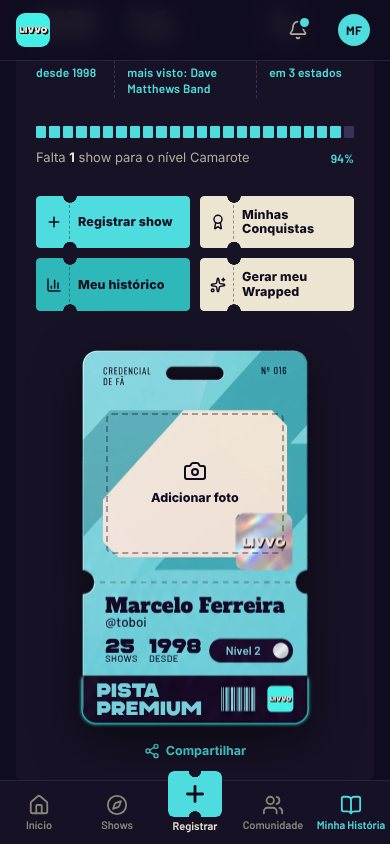
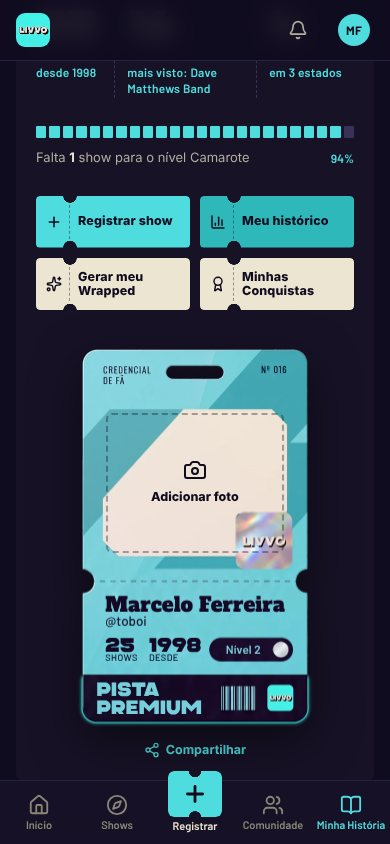
livvo-final: ordem dos botões e dos filtros de Minhas Conquistas (decisões 87 e 88)
- Botões da Minha História: Registrar show, Meu histórico, Gerar meu Wrapped, Minhas Conquistas (mantida a ordem do Codex)
- Filtros: Conquistadas, A conquistar, Todas, Em breve; a galeria abre em Conquistadas
- Antes de 5 shows a galeria mostra todas as figurinhas, sem filtros
- Remove conquistasLegacy.ts (cópia sem uso do rename para conquistasLogic.ts)
- Handoff, Comece aqui e 4 capturas atualizados

Claude-Session: https://claude.ai/code/session_01PooTs6g2QKj5BVXqp7ffCN

diff --git a/src/livvo/Conquistas.tsx b/src/livvo/Conquistas.tsx
@@ -7,21 +7,24 @@ import { Picotes, Stub } from './ui';
 
 type Filtro = 'all' | StickerState['status'];
 
+// Ordem dos filtros: decisão do Edmir de 08/10/2026, 06h18 (Conquistadas, A conquistar, Todas, Em breve)
 const FILTROS: Array<{ id: Filtro; label: string }> = [
-  { id: 'all', label: 'Todas' },
   { id: 'unlocked', label: 'Conquistadas' },
   { id: 'locked', label: 'A conquistar' },
+  { id: 'all', label: 'Todas' },
   { id: 'soon', label: 'Em breve' },
 ];
 
 /** Coleção do Passaporte: arquivos Color oficiais com transparência, sem cards. */
 export const MinhasConquistas: React.FC<{ pass: Passaporte; fechar: () => void }> = ({ pass, fechar }) => {
-  const [filtro, setFiltro] = useState<Filtro>('all');
+  // Abre no primeiro filtro (Conquistadas)
+  const [filtro, setFiltro] = useState<Filtro>('unlocked');
   const stickers = useMemo(() => avaliarConquistas(pass), [pass]);
   const conquistadas = stickers.filter((sticker) => sticker.status === 'unlocked').length;
-  const visiveis = stickers.filter((sticker) => filtro === 'all' || sticker.status === filtro);
   // N2 (06/10/2026): a primeira conquista chega com 5 shows registrados
   const faltam = Math.max(0, MIN_SHOWS_CONQUISTAS - pass.shows);
+  // Antes de 5 shows os filtros somem e a galeria mostra todas
+  const visiveis = stickers.filter((sticker) => faltam > 0 || filtro === 'all' || sticker.status === filtro);
 
   return (
     <section id="minhas-conquistas" className="lv-hist lv-conquistas" aria-label="Minhas Conquistas">

diff --git a/src/livvo/pages/MinhaHistoria.tsx b/src/livvo/pages/MinhaHistoria.tsx
@@ -277,7 +277,8 @@ export const MinhaHistoria: React.FC = () => {
 
           </div>
 
-          {/* 4 botões: numa linha no computador (07/10, 21h51) e em grade 2 × 2 no celular (revisão 11) */}
+          {/* 4 botões: Registrar show, Meu histórico, Gerar meu Wrapped e Minhas Conquistas (ordem do Edmir, 08/10 às 06h18);
+              numa linha no computador e em grade 2 × 2 no celular (revisão 11) */}
           <div className="lv-acoes-4 order-2 lg:order-3 lg:col-span-2 -mt-1 lg:-mt-3">
             <Stub icone={Plus} to="/registrar">
               Registrar show

diff --git a/docs/livvo-final/HANDOFF_PARTE1.md b/docs/livvo-final/HANDOFF_PARTE1.md
@@ -23,7 +23,7 @@ Este documento descreve a "cara" do Livvo final que está sendo montada dentro d
 
 > **Revisão 10 (07/10/2026, pedido às 21h51):** na Minha História, **"Minhas Conquistas" logo depois de "Registrar show"** e os **4 botões numa linha só**, sem quebrar o texto; o **"Registrar show"** do cabeçalho no mesmo modelo do "Comece agora" da página de entrada; e a regra: **ingressos e botões-ingresso têm os furos sempre em cima e embaixo, nunca nas laterais**. Seções 4, 5 e 6.5 e decisões 70 a 72.
 
-> **Revisão 11 (08/10/2026, aprovada pelo Edmir às 00h55):** as 12 correções da "Análise atualizada do projeto" (07/10) e as 6 decisões que estavam pendentes. **Sem escada de verificação** (frase "Em breve, o Livvo vai verificar a sua presença nos shows."); **conquistas a partir de 5 shows**; frase de posicionamento com **"encontrou"** em todos os lugares; **só as faixas de acesso** (Pista → All Access); Minha História com os **4 botões em grade 2 × 2 no celular** e **boas-vindas na conta zerada**; na página do show no celular, **as notas vêm logo abaixo do pôster**; **Eu fui sem ✓ antes do toque**; **"Falta 1 show"**; Credencial sem rótulo de teste e com um só "Adicionar foto"; página de entrada com os nomes do app; **visitante cria e compartilha 1 pôster sem login**; **médias só com notas públicas e de seguidores, mínimo de 5**. Novidades: **aviso animado de nova conquista** e **sino com "O que quem você segue está vivendo"**, com o Início destacando o que é novo desde a última visita. Seções 5.9, 6.0, 6.1, 6.3, 6.4 e 6.5 e decisões 73 a 86.
+> **Revisão 11 (08/10/2026, aprovada pelo Edmir às 00h55):** as 12 correções da "Análise atualizada do projeto" (07/10) e as 6 decisões que estavam pendentes. **Sem escada de verificação** (frase "Em breve, o Livvo vai verificar a sua presença nos shows."); **conquistas a partir de 5 shows**; frase de posicionamento com **"encontrou"** em todos os lugares; **só as faixas de acesso** (Pista → All Access); Minha História com os **4 botões em grade 2 × 2 no celular** e **boas-vindas na conta zerada**; na página do show no celular, **as notas vêm logo abaixo do pôster**; **Eu fui sem ✓ antes do toque**; **"Falta 1 show"**; Credencial sem rótulo de teste e com um só "Adicionar foto"; página de entrada com os nomes do app; **visitante cria e compartilha 1 pôster sem login**; **médias só com notas públicas e de seguidores, mínimo de 5**. Novidades: **aviso animado de nova conquista** e **sino com "O que quem você segue está vivendo"**, com o Início destacando o que é novo desde a última visita. Seções 5.9, 6.0, 6.1, 6.3, 6.4 e 6.5 e decisões 73 a 86. **Ajuste das 06h18:** botões da Minha História na ordem Registrar show, Meu histórico, Gerar meu Wrapped e Minhas Conquistas; filtros das conquistas na ordem Conquistadas, A conquistar, Todas e Em breve; inclui a correção do Codex no nome do arquivo de conquistas (decisões 87 e 88).
 
 > Importante: pelo plano de fusão, **B continua sendo a base técnica**. Esta prévia é a referência visual e de comportamento. Reaproveitar ou reescrever os componentes no stack de B é decisão do Greg.
 
@@ -237,10 +237,10 @@ Na Minha História, abaixo de "Registrar show" e "Compartilhar credencial": **Me
 
 ---
 
-### 5.9 Novidades e pôster grátis (revisão 11: `src/livvo/Novidades.tsx`, `src/livvo/conquistas.ts`, `src/livvo/PosterVisitante.tsx`)
+### 5.9 Novidades e pôster grátis (revisão 11: `src/livvo/Novidades.tsx`, `src/livvo/conquistasLogic.ts`, `src/livvo/PosterVisitante.tsx`)
 
 - **Aviso de nova conquista (`AvisoConquista`, montado no `AppShell`):** quando o registro de **1 show** desbloqueia conquistas, abre uma janela com o sticker entrando animado (escala e giro, raios girando atrás), o nome, o critério, "E mais N conquistas: …" quando for mais de uma, o botão-canhoto **"Ver Minhas Conquistas"** (leva a `/minha-historia?ver=conquistas`, que abre a galeria) e "Continuar". Com movimento reduzido no sistema (`prefers-reduced-motion`), nada anima. Restaurar a demonstração ou zerar a conta não dispara aviso. Chave: `livvo_final_conquistas_vistas_v1`.
-- **Conquistas a partir de 5 shows (N2):** `avaliarConquistas` (em `conquistas.ts`) trava tudo antes de 5 shows; a galeria mostra "Faltam N shows para a sua primeira conquista", picotes 0/5 e "Registrar show". `paraIngressosA` mudou para esse arquivo leve (o `HistoricoWrapped` reexporta), para o aviso não carregar os gráficos e o Wrapped.
+- **Conquistas a partir de 5 shows (N2):** `avaliarConquistas` (em `conquistasLogic.ts`) trava tudo antes de 5 shows; a galeria mostra "Faltam N shows para a sua primeira conquista", picotes 0/5 e "Registrar show", com todas as figurinhas e sem filtros. A partir de 5 shows, filtros na ordem **Conquistadas, A conquistar, Todas, Em breve**, abrindo em Conquistadas (decisão de 08/10, 06h18). `paraIngressosA` mudou para esse arquivo leve (o `HistoricoWrapped` reexporta), para o aviso não carregar os gráficos e o Wrapped. **Nome do arquivo:** `conquistasLogic.ts`, e não `conquistas.ts`, porque no macOS (que não diferencia maiúscula de minúscula) ele colidia com `Conquistas.tsx`; a correção é do Codex (commits `f4b8864` e `9eb2564`, 08/10).
 - **Sino (`SinoAtividade`):** o sino do cabeçalho deixa de ser só o link de Alertas. Ponto Ciano pulsando quando quem você segue registrou algo depois da última visita; o toque abre o painel **"O que quem você segue está vivendo"** (até 6 registros, os novos com a etiqueta Novo, "Ver na Comunidade" e "Alertas de shows"). No celular, o painel ocupa a largura da tela. Abrir o painel ou visitar o Início marca como visto (`livvo_final_atividade_vista_v1`). Nesta prévia a atividade vem da comunidade de exemplo, com horário fixo no dia; no site, vem do banco (registros públicos ou para seguidores de quem a pessoa segue).
 - **Pôster grátis do visitante (decisão 3 de 07/10):** sem login, o Eu fui (página do show ou Registrar) abre a janela "Seu pôster" com o pôster do show, **Compartilhar** (Stories, Feed, Facebook, WhatsApp, Copiar link) e **"Entrar e guardar"**. Vale 1 pôster por visitante (`livvo_poster_visitante_v1`); o 2º pede login. "Entrar e guardar" abre o login e, ao entrar, registra o show na história. No site, o limite deve ficar no servidor (por aparelho e IP), não só no navegador. O menu da prévia tem "Zerar pôster grátis e cards sem login" para testar de novo.
 
@@ -317,7 +317,7 @@ Página-ingresso com tira "Livvo · Registrar show / Passo 1 de 2" (e "Passo 2 d
 Mesma página de identificação da Wallet do Estúdio, sem a linha MRZ:
 1. Tira "Livvo · Passaporte de fã / Titular @toboi"; ícone de passaporte e **"Passaporte Oficial de Shows"** em Alfa Teal; "Cada show que você registra vira um carimbo aqui. Os antigos contam também."
 2. TITULAR · NOME (Alfa) e @ em Ciano; campos Shows · Artistas · Cidades; 24 marcas com "Faltam N shows para o nível X" ("Falta 1 show", no singular) e percentual. **Conta zerada (revisão 11):** no lugar dos zeros, o quadro "Passaporte em branco · Seu primeiro carimbo está a um show de distância."; "Meu histórico" e "Gerar meu Wrapped" ficam desligados até o 1º show.
-3. Botões-canhoto **numa linha só**, na largura toda do Passaporte (revisão 10): **"Registrar show"** (Ciano), **"Minhas Conquistas"** (Creme; abre a galeria de conquistas, `src/livvo/Conquistas.tsx`), **"Meu histórico"** (Teal) e **"Gerar meu Wrapped"** (Creme), seção 5.6. Texto, canhoto e margens acompanham a largura da linha (texto de 11,5 a 13,5 px), sem quebrar texto; abaixo de 720 px, **grade 2 × 2** (revisão 11), com o texto podendo ir para 2 linhas, os 4 sempre à vista. O "Compartilhar credencial" saiu na revisão 6: fica só o "Compartilhar" embaixo da credencial. **Números clicáveis** (revisão 6): Shows rola até a Carteira de ingressos; Artistas e Cidades abrem o Meu histórico e levam ao gráfico "Artistas mais vistos" ou "Cidades", destacado por 2 s. No Início, os mesmos números levam à Minha História (`/minha-historia?ver=carteira|artistas|cidades`). Os campos Shows · Artistas · Cidades ganharam mais espaço entre si (revisão 5).
+3. Botões-canhoto **numa linha só**, na largura toda do Passaporte, nesta ordem (decisão de 08/10, 06h18): **"Registrar show"** (Ciano), **"Meu histórico"** (Teal), **"Gerar meu Wrapped"** (Creme) e **"Minhas Conquistas"** (Creme; abre a galeria de conquistas, `src/livvo/Conquistas.tsx`), seção 5.6. Texto, canhoto e margens acompanham a largura da linha (texto de 11,5 a 13,5 px), sem quebrar texto; abaixo de 720 px, **grade 2 × 2** (revisão 11), com o texto podendo ir para 2 linhas, os 4 sempre à vista. O "Compartilhar credencial" saiu na revisão 6: fica só o "Compartilhar" embaixo da credencial. **Números clicáveis** (revisão 6): Shows rola até a Carteira de ingressos; Artistas e Cidades abrem o Meu histórico e levam ao gráfico "Artistas mais vistos" ou "Cidades", destacado por 2 s. No Início, os mesmos números levam à Minha História (`/minha-historia?ver=carteira|artistas|cidades`). Os campos Shows · Artistas · Cidades ganharam mais espaço entre si (revisão 5).
 4. À direita (abaixo no celular): **Credencial Backstage** com os dados da conta (nome, @, shows, desde, nível e acesso calculados pelos shows, Nº de cadastro de teste 16), um só "Adicionar foto" (o botão sobre a credencial; o link "Trocar foto" aparece só depois da foto) e sem o rótulo "Credencial teste" (revisão 11), com o mesmo tratamento e mesma chave `livvo_user_photo_v1` do Estúdio: até 1024 px, mantém transparência, tenta 640 px sem espaço, aviso para HEIC) e "Compartilhar" (PNG em resolução cheia pelo menu do celular ou download).
 5. **Carteira de ingressos 25**: memórias por ano em ingressos de contorno Ciano (duas colunas a partir de 1024 px): pôster no canhoto, artista em Alfa, data, casa · cidade, nota do show em ingressos ou "Sem nota", e "Falta a organização" (leva direto à nota). O canhoto mostra a personalização da memória e o nome do artista quebra em até duas linhas, sem cortar palavra.
 As abas Números, Coleção (medalhas, desafios, stickers), Agenda e Listas entram na parte 3.
@@ -462,7 +462,7 @@ Decisões do Edmir em 07/10/2026, 21h24 e 21h27 (revisão 9):
 
 Decisões do Edmir em 07/10/2026, 21h51 (revisão 10):
 
-70. **"Minhas Conquistas" logo depois de "Registrar show"** na Minha História, e os **4 botões numa única linha**, sem quebrar o texto.
+70. ~~"Minhas Conquistas" logo depois de "Registrar show"~~ (ordem substituída pela decisão 87) na Minha História, e os **4 botões numa única linha**, sem quebrar o texto.
 71. **O "Registrar show" usa o modelo do "Comece agora"** da página de entrada.
 72. **Ingressos sempre com os furos em cima e embaixo, nunca nas laterais.**
 
@@ -482,6 +482,11 @@ Decisões do Edmir em 08/10/2026, 00h55 (revisão 11, a partir da "Análise atua
 84. **Visitante cria e compartilha 1 pôster sem login;** login para guardar na história ou fazer o 2º pôster.
 85. **Médias só com notas públicas e de seguidores**, mínimo de 5 na página pública e de 30 nos relatórios para produtoras e casas.
 86. **Novidades:** aviso animado ao desbloquear uma conquista e aviso de "O que quem você segue está vivendo" (ponto no sino, painel e destaque no Início).
+
+Decisões do Edmir em 08/10/2026, 06h18 (depois da atualização do Codex):
+
+87. **Ordem dos botões da Minha História:** Registrar show, Meu histórico, Gerar meu Wrapped e Minhas Conquistas (a ordem que o Codex aplicou).
+88. **Filtros de Minhas Conquistas:** Conquistadas, A conquistar, Todas e Em breve, nesta ordem; a galeria abre em Conquistadas.
 
 Também aprovadas em 08/10 (decisão 6 da análise), deixam de ser DRAFT: visibilidade padrão **"Seguidores"**; primeira visita na **página de entrada**; **"Show da minha vida" em amarelo**; quem pode marcar você = **"Quem eu sigo"**; IDs das dimensões novas **`visao_palco`**, **`clima_publico`** e **`bares_banheiros`** (não podem mudar depois de publicados). Fonte do corpo: **Plus Jakarta Sans no app e no site, Barlow nos impressos** (decisão 4 da análise); ícones Lucide. O registro na identidade oficial (`LIVVO_IDENTIDADE_VISUAL_OFICIAL.md`) aguarda o Edmir aprovar o texto.
 
@@ -520,7 +525,7 @@ Lembrete de marca: a frase de posicionamento é "Filmes e séries têm os seus a
 | `src/livvo/HistoricoWrapped.tsx` | Ponte para o `MyHistory` e o `TourWrappedModal` do A (5.6) |
 | `src/livvo/Favoritos.tsx` | Favoritar e Artistas favoritos (5.8) |
 | `src/livvo/Conquistas.tsx` | Galeria Minhas Conquistas (figurinhas do Passaporte, com filtros; travada até 5 shows desde a revisão 11) |
-| `src/livvo/conquistas.ts` | Cálculo das conquistas com a trava de 5 shows e `paraIngressosA` (revisão 11) |
+| `src/livvo/conquistasLogic.ts` | Cálculo das conquistas com a trava de 5 shows e `paraIngressosA` (revisão 11) |
 | `src/livvo/Novidades.tsx` | Aviso de nova conquista, sino com o painel de atividade e `useAtividade` (revisão 11, seção 5.9) |
 | `src/livvo/PosterVisitante.tsx` | Pôster grátis do visitante e `useEuFui` (revisão 11, seção 5.9) |
 | `public/bem-vindo/` | Página de entrada (cópia ligada ao app) e as imagens dela (6.0) |
@@ -539,6 +544,8 @@ Lembrete de marca: a frase de posicionamento é "Filmes e séries têm os seus a
 | `public/livvo/` | Catálogo recortado e ícone oficial reduzido |
 | `src/components/LoginModal.tsx` | Texto ajustado para o novo contexto |
 | `index.html` | Título, descrição e ícone da aba |
+
+Verificação do ajuste das 06h18 (08/10/2026): `tsc` e `npm run build` sem erros; Playwright em 390 × 844 e 1440 × 900 sem erros de página e sem rolagem lateral: botões na ordem Registrar show, Meu histórico, Gerar meu Wrapped e Minhas Conquistas; filtros na ordem Conquistadas (aberto, 13 figurinhas na demonstração), A conquistar, Todas e Em breve; conta zerada com as 51 figurinhas e sem filtros. `conquistasLegacy.ts`, cópia sem uso deixada no rename, foi apagado.
 
 Verificação da revisão 11 (08/10/2026, commit `3d1a055`): `tsc` e `npm run build` sem erros; Playwright em 390 × 844, 360 × 844 e 1440 × 900 sem erros de página e sem rolagem lateral: Minha História com os 4 botões em 2 × 2 no celular e numa linha no computador; Credencial com "Nível 2 · Pista Premium", sem rótulo de teste e com um só "Adicionar foto"; página do show no celular com as notas logo abaixo do pôster e os 3 botões menores depois; sino com ponto e painel; Início com "5 novidades desde a sua última visita"; conta zerada com o Passaporte em branco, Minhas Conquistas travada e Meu histórico desligado; 5 shows registrados → aviso "Eu Tava Lá" + 4 conquistas → "Ver Minhas Conquistas" abre a galeria; visitante: 1º pôster abre "Seu pôster", 2º pede login, "Entrar e guardar" registra o show depois do login.
 

diff --git a/docs/livvo-final/COMECE-AQUI.md b/docs/livvo-final/COMECE-AQUI.md
@@ -2,7 +2,7 @@
 
 Status: **DRAFT** para avaliação do Greg · 08/10/2026 · revisão 11 · preparado por Claude, decisões de produto do Edmir.
 
-> **Novo na revisão 11 (08/10):** correções da análise de 07/10 e as decisões que estavam em aberto: sem escada de verificação ("Em breve, o Livvo vai verificar a sua presença nos shows."), conquistas a partir de 5 shows, "encontrou" na frase de posicionamento, só as faixas de acesso, visitante com 1 pôster grátis, médias só com notas públicas e de seguidores (mínimo 5; 30 nos relatórios), aviso animado de nova conquista e sino com "O que quem você segue está vivendo". Detalhes no topo do HANDOFF, seção 5.9 e decisões 73 a 86.
+> **Novo na revisão 11 (08/10):** correções da análise de 07/10 e as decisões que estavam em aberto: sem escada de verificação ("Em breve, o Livvo vai verificar a sua presença nos shows."), conquistas a partir de 5 shows, "encontrou" na frase de posicionamento, só as faixas de acesso, visitante com 1 pôster grátis, médias só com notas públicas e de seguidores (mínimo 5; 30 nos relatórios), aviso animado de nova conquista e sino com "O que quem você segue está vivendo". Às 06h18: botões da Minha História na ordem Registrar show, Meu histórico, Gerar meu Wrapped e Minhas Conquistas, e filtros das conquistas na ordem Conquistadas, A conquistar, Todas e Em breve. Detalhes no topo do HANDOFF, seção 5.9 e decisões 73 a 88.
 
 Esta pasta reúne tudo o que foi montado hoje para a "cara" do Livvo final. É uma **prévia de referência visual e de comportamento**, feita dentro do app A (Vercel). Pelo plano de fusão de 06/10/2026, **o site B (livvomusic.com.br) continua sendo a base técnica**: reaproveitar ou reescrever estes componentes no stack de B é decisão sua.
 
@@ -40,18 +40,18 @@ npm run build      # tsc -b + vite build
    - Regra fixa: ingressos e botões-ingresso têm os furos **só em cima e embaixo**.
 4. **Seção 7:** modelo de dados proposto para o banco de B. Esta é a parte que mais pede a sua decisão.
 5. **Seção 8:** o que é real e o que é exemplo.
-6. **Seção 9:** as 86 decisões já tomadas com o Edmir (as escolhas que estavam em DRAFT foram aprovadas em 08/10).
+6. **Seção 9:** as 88 decisões já tomadas com o Edmir (as escolhas que estavam em DRAFT foram aprovadas em 08/10).
 7. **Seção 11:** mapa dos arquivos.
 
 ## 4. Telas
 
-58 capturas em [`telas/`](telas/), tiradas em celular (390 × 844) e computador (1440 × 900). O prefixo indica a revisão:
+60 capturas em [`telas/`](telas/), tiradas em celular (390 × 844) e computador (1440 × 900). O prefixo indica a revisão:
 
 - **sem prefixo:** telas principais;
 - **`r7-`:** fotos, janela do Eu fui, Comunidade em caixas, favoritos;
 - **`r8-` e `r9-`:** página de entrada;
 - **`r10-`:** Minha História com os 4 botões e Minhas Conquistas;
-- **`r11-`:** grade 2 × 2, notas logo abaixo do pôster no celular, sino com novidades, conta zerada, aviso de nova conquista, conquistas travadas e pôster do visitante.
+- **`r11-`:** grade 2 × 2, notas logo abaixo do pôster no celular, sino com novidades, conta zerada, aviso de nova conquista, conquistas travadas, filtros das conquistas e pôster do visitante.
 
 Quando uma captura antiga diferir de uma nova, valem a **mais nova** e a **prévia publicada**.
 
